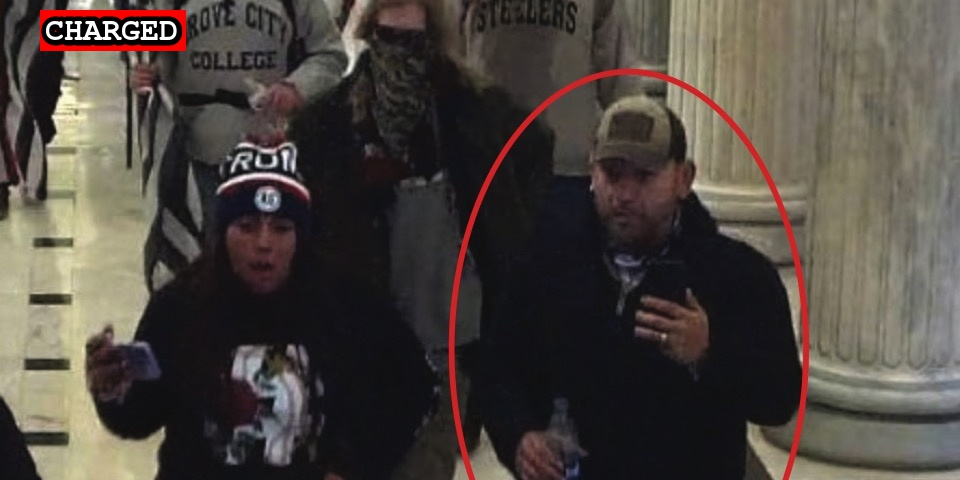
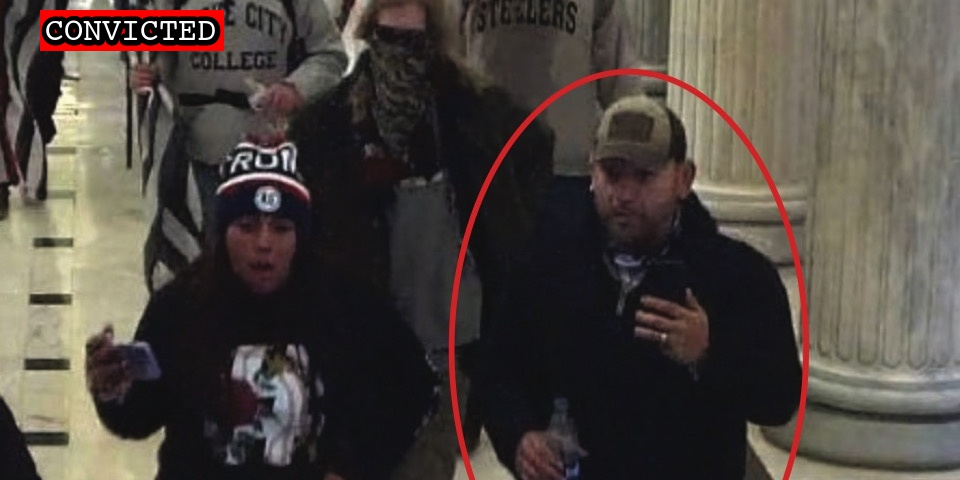
Latest import

Changed region(s): [[0.0312, 0.0, 0.25, 0.125]]

diff --git a/docs/_suspects/david-ticas.md b/docs/_suspects/david-ticas.md
@@ -4,15 +4,17 @@ lastName: Ticas
 hashtag: DavidTicas
 aka:
 residence: California
-status: Charged
+status: Convicted
 date: 2021-09-21
 charged: 2021-09-21
 indicted:
-convicted:
+convicted: 2022-04-26
+acquitted:
 sentenced:
 dismissed:
 deceased:
-plea_hearing:
+plea_hearing: 2022-04-26
+trial_date:
 sentencing:
 age: 39
 occupation:
@@ -34,8 +36,14 @@ published: true
 caseNumber: 1:21-cr-601
 videos:
 charges:
+- code: 40 USC § 5104(e)(2)(G)
+  title: Parading, demonstrating or picketing in a Capitol building
+  url: https://www.law.cornell.edu/uscode/text/40/5104
+  felony: false
 sentence:
 ---
 - [News Report](https://www.ocregister.com/2021/10/07/2-more-with-southern-california-ties-charged-in-jan-6-storming-of-u-s-capitol/)
 - [Statement of Facts](https://www.justice.gov/usao-dc/case-multi-defendant/file/1457581/download)
-- [Information](https://www.justice.gov/usao-dc/case-multi-defendant/file/1457586/download)
+- [Information](https://www.justice.gov/usao-dc/case-multi-defendant/file/1497006/download)
+- [Plea Agreement](https://www.justice.gov/usao-dc/case-multi-defendant/file/1497011/download)
+- [Statement of Offense](https://www.justice.gov/usao-dc/case-multi-defendant/file/1497016/download)

diff --git a/docs/_suspects/matthew-montalvo.md b/docs/_suspects/matthew-montalvo.md
@@ -1,0 +1,43 @@
+---
+name: Matthew Montalvo
+lastName: Montalvo
+hashtag:
+aka:
+residence:
+status: Charged
+date: 2022-04-15
+charged: 2022-04-15
+indicted:
+convicted:
+acquitted:
+sentenced:
+dismissed:
+deceased:
+plea_hearing:
+trial_date:
+sentencing:
+age:
+occupation:
+affiliations:
+jurisdiction: Federal
+image: /images/preview/matthew-montalvo.jpg
+suspect: matthew-montalvo.jpg
+booking:
+courtroom:
+courthouse:
+raid:
+perpwalk:
+quote:
+title: Matthew Montalvo charged on April 15th, 2022
+description: Click for latest case details. Suspects innocent until proven guilty.
+author: seditiontrack
+layout: suspect
+published: false
+caseNumber: 1:22-mj-82
+videos:
+charges:
+sentence:
+---
+- [News Report]()
+- [Complaint](https://www.justice.gov/usao-dc/case-multi-defendant/file/1497021/download)
+- [Statement of Facts](https://www.justice.gov/usao-dc/case-multi-defendant/file/1497026/download)

diff --git a/docs/_suspects/elliot-bishai.md b/docs/_suspects/elliot-bishai.md
@@ -8,12 +8,12 @@ status: Convicted
 date: 2021-03-15
 charged: 2021-03-15
 indicted: 2021-12-15
-convicted: 2022-04-25
+convicted: 2022-04-26
 acquitted:
 sentenced:
 dismissed:
 deceased:
-plea_hearing: 2022-04-25
+plea_hearing: 2022-04-26
 trial_date:
 sentencing:
 age: 20
@@ -47,3 +47,4 @@ sentence:
 - [Statement of Facts](https://www.justice.gov/usao-dc/case-multi-defendant/file/1386286/download)
 - [Information](https://www.justice.gov/usao-dc/case-multi-defendant/file/1386291/download)
 - [Indictment](https://www.justice.gov/usao-dc/case-multi-defendant/file/1460131/download)
+- [Statement of Offense](https://storage.courtlistener.com/recap/gov.uscourts.dcd.229793/gov.uscourts.dcd.229793.71.0.pdf)

diff --git a/docs/_suspects/reva-vincent.md b/docs/_suspects/reva-vincent.md
@@ -42,6 +42,6 @@ charges:
   felony: false
 sentence:
 ---
-- [Information](https://extremism.gwu.edu/sites/g/files/zaxdzs2191/f/Reva%20Vincent%20Information.pdf)
-- [Plea Agreement](https://extremism.gwu.edu/sites/g/files/zaxdzs2191/f/Reva%20Vincent%20Plea%20Agreement.pdf)
-- [Statement of Offense](https://extremism.gwu.edu/sites/g/files/zaxdzs2191/f/Reva%20Vincent%20Statement%20of%20Offense.pdf)
+- [Information](https://www.justice.gov/usao-dc/case-multi-defendant/file/1496526/download)
+- [Plea Agreement](https://www.justice.gov/usao-dc/case-multi-defendant/file/1496531/download)
+- [Statement of Offense](https://www.justice.gov/usao-dc/case-multi-defendant/file/1496536/download)
